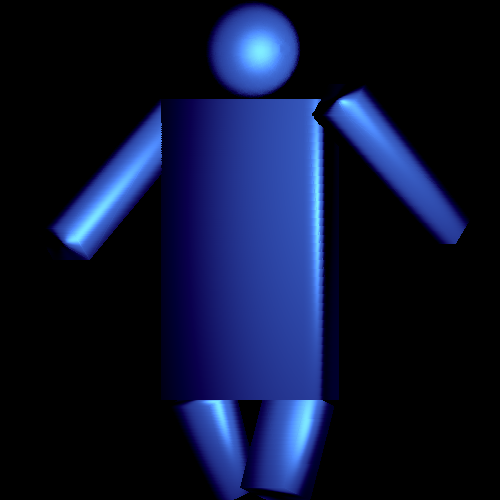
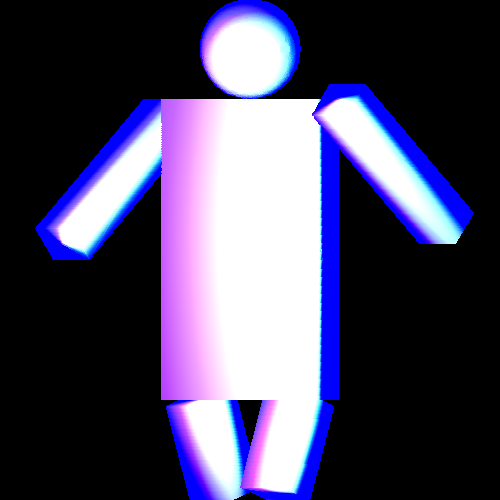
yaaaaaay

diff --git a/display.c b/display.c
@@ -147,12 +147,12 @@ void plot1( screen s, int x, int y, int z, struct matrix *zbuf, double * n, stru
       //printf("%f %f %f\n",c.red, c.green, c.blue);
       //printf("lighting\n");
       //printf("%d\n",i);
-      /*c.red = c.red>255?255:c.red;
+      c.red = c.red>255?255:c.red;
       c.red = c.red<0?0:c.red;
       c.green = c.green>255?255:c.green;
       c.green = c.green<0?0:c.green;
       c.blue = c.blue>255?255:c.blue;
-      c.blue = c.blue<0?0:c.blue;*/
+      c.blue = c.blue<0?0:c.blue;
     }
     c.red = c.red>255?255:c.red;
       c.red = c.red<0?0:c.red;
